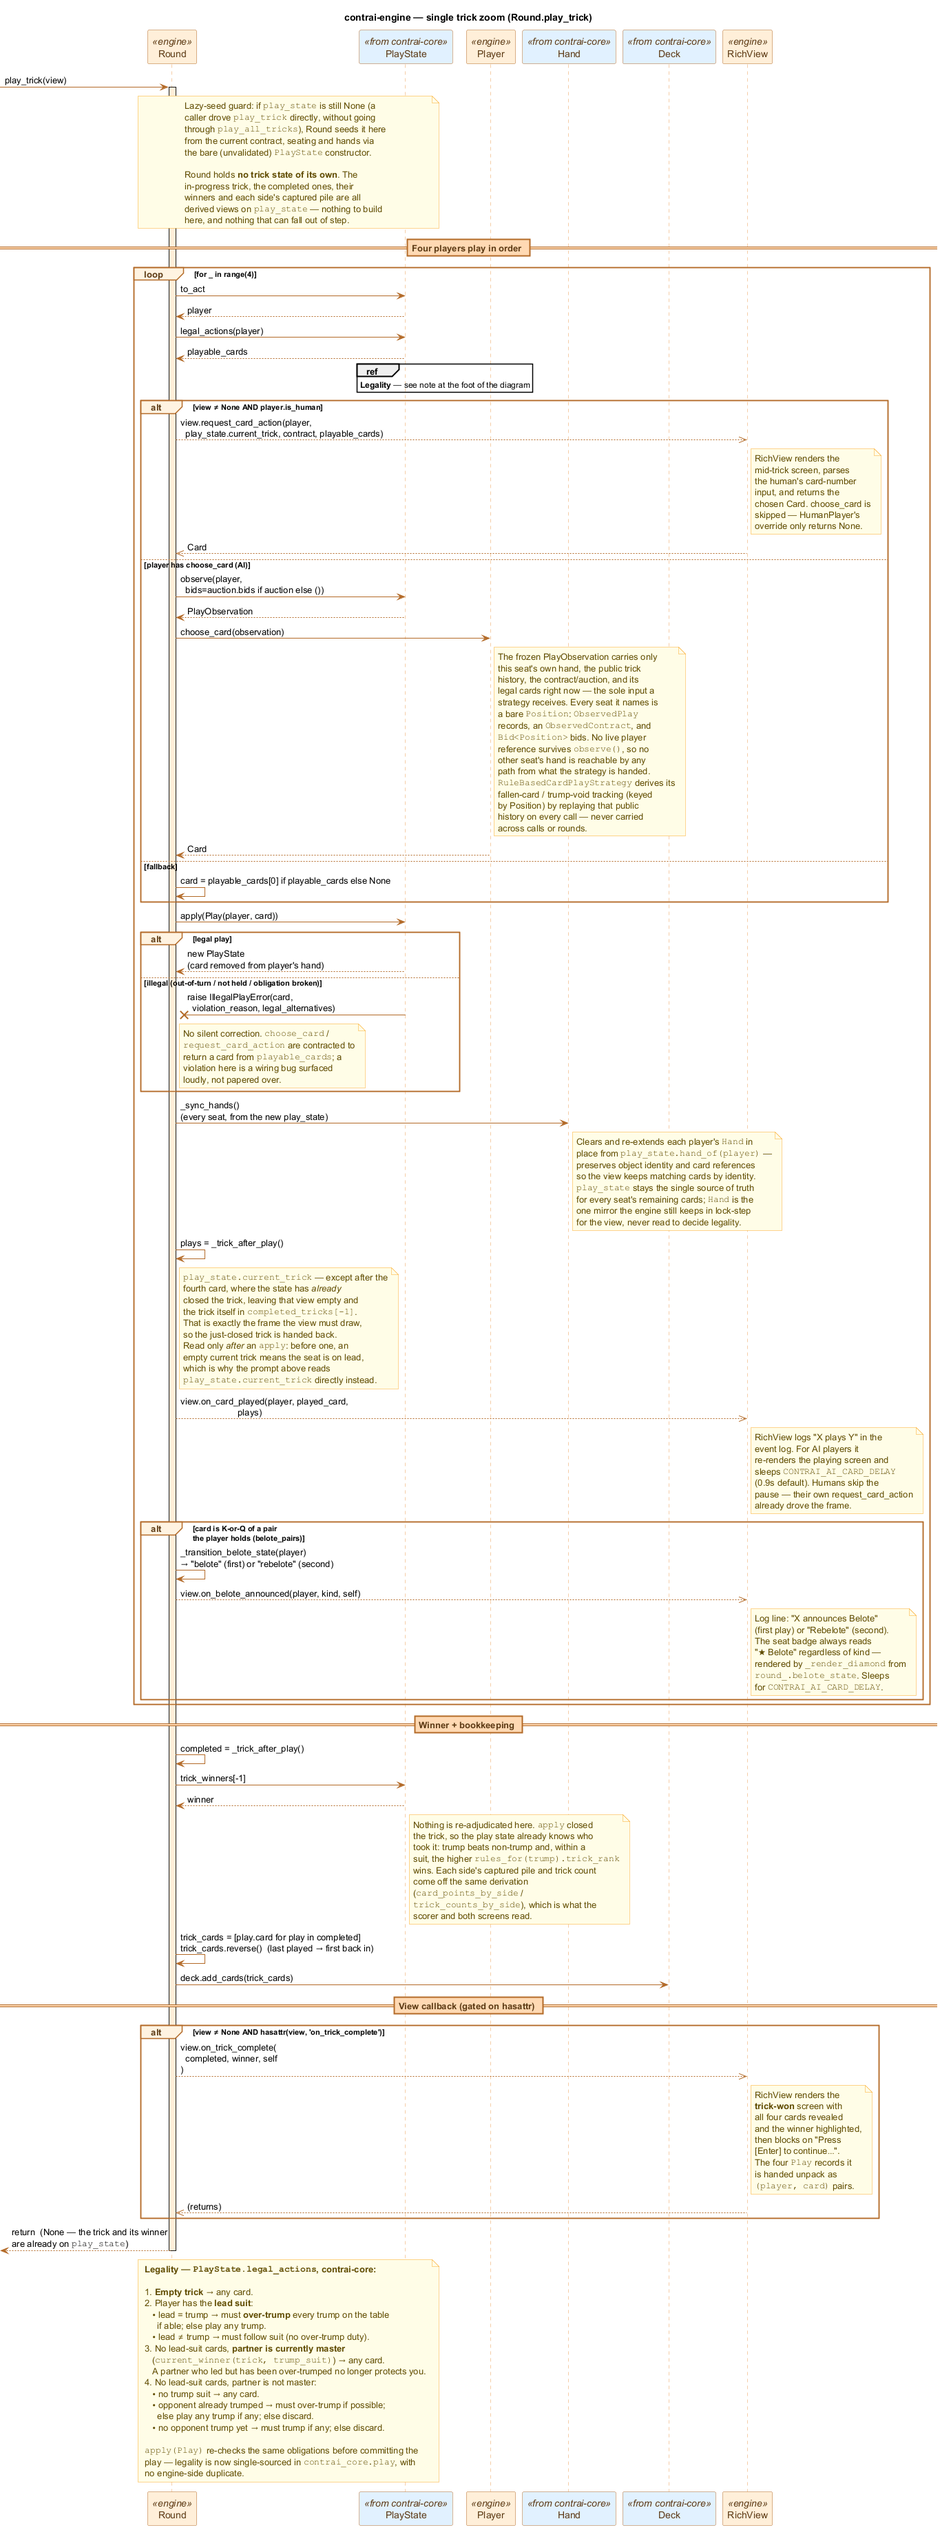
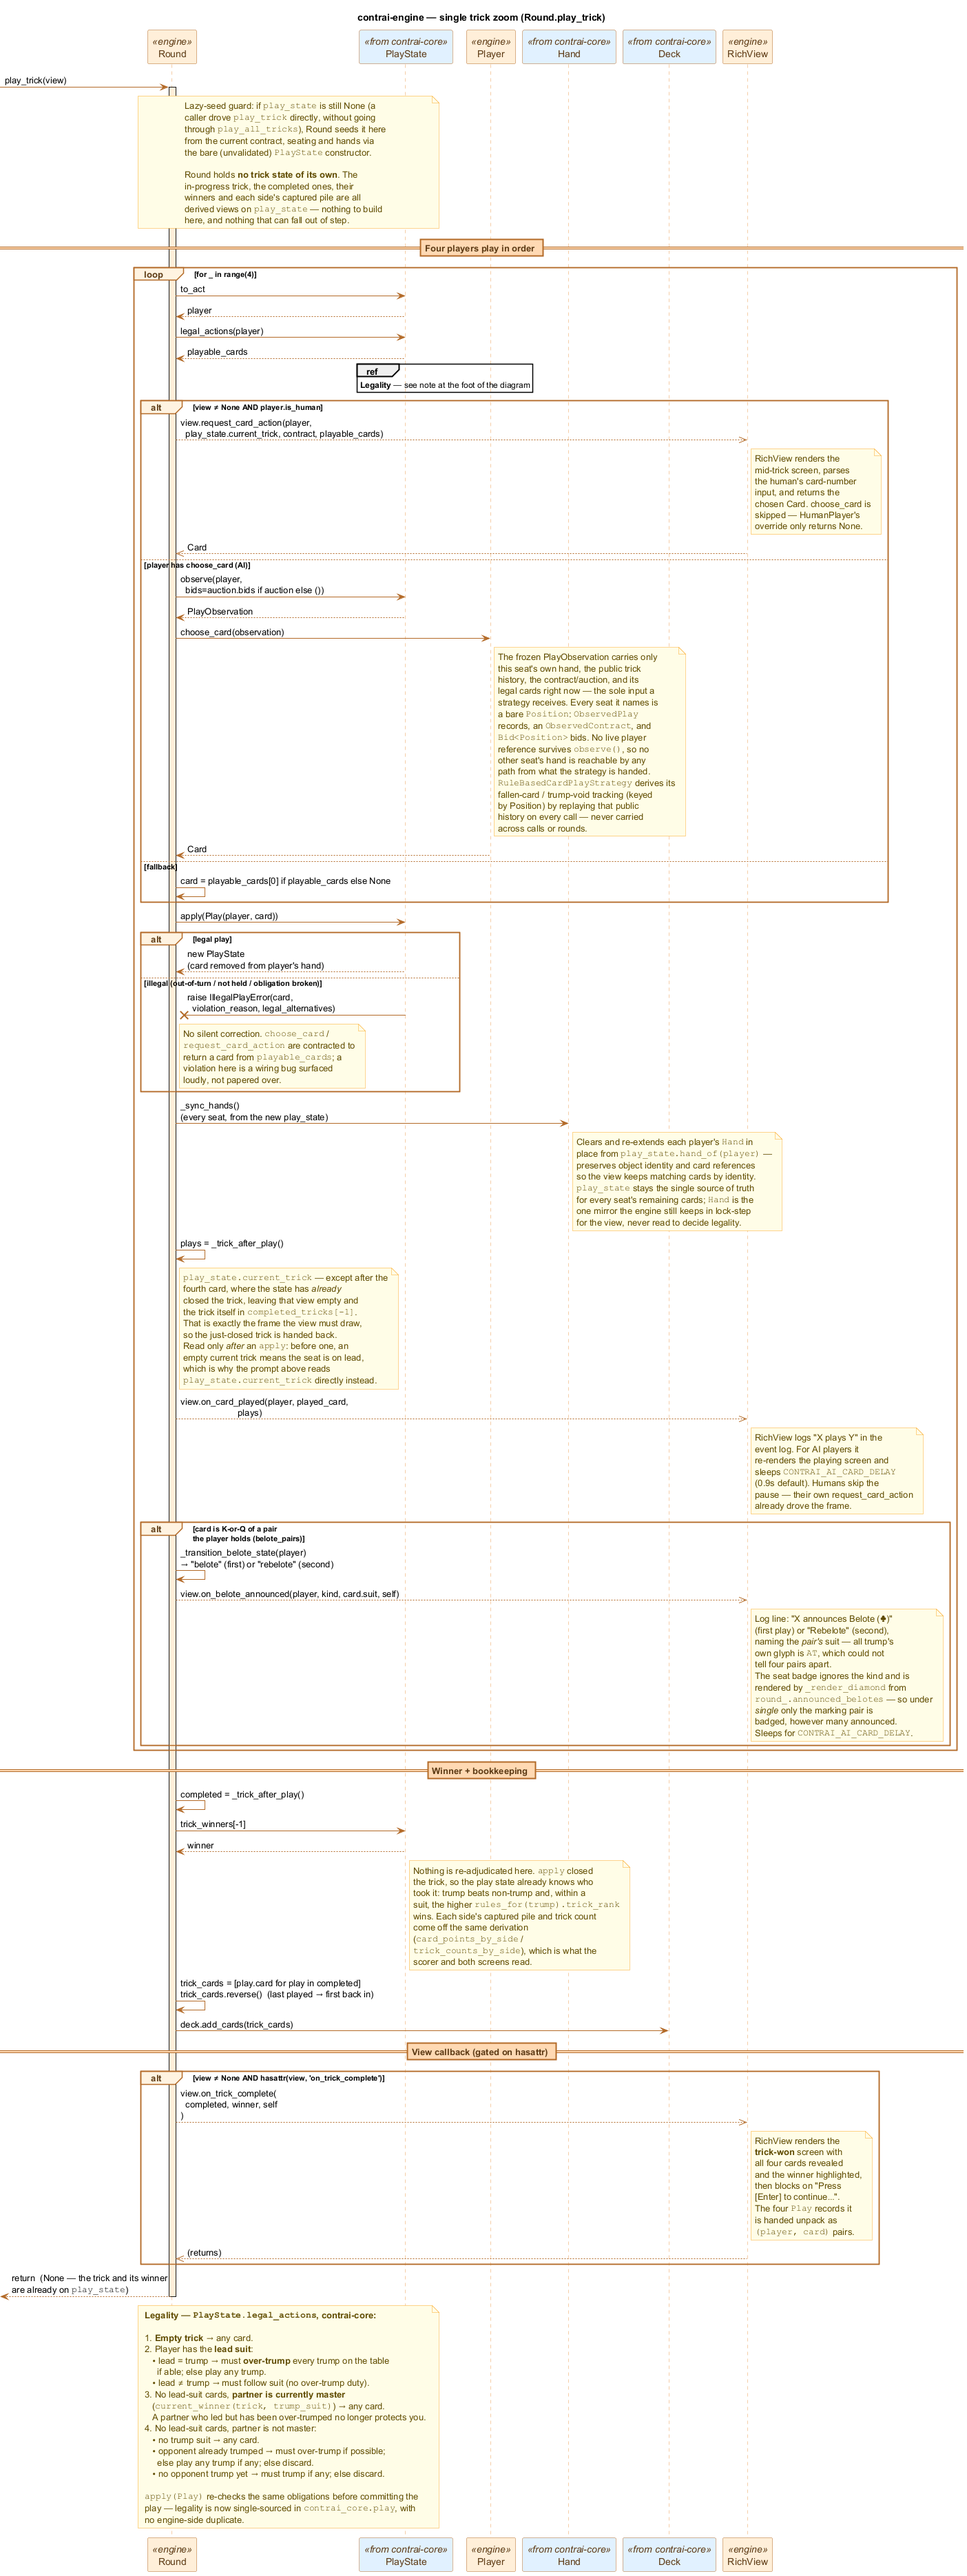
fix(engine)!: name the announced pair's own suit in the event log
The log appended the *contract's* glyph, and all trump's is the string
"AT" — so the up to four pairs one deal can hold all narrated as
"N announces Belote (AT).", with nothing to tell them apart. The hook
now carries the pair's suit, which the call site already had in hand as
card.suit. Under `single` the later announcements are still logged: a
seat really does say it at the table, it just marks nothing and so
carries no badge.

BREAKING CHANGE: view.on_belote_announced(player, kind, round_) gains a
suit parameter before round_ — on_belote_announced(player, kind, suit,
round_). A view that does not implement the hook is unaffected (the call
stays hasattr-gated); one that does must accept the new argument.

diff --git a/packages/contrai-engine/src/contrai_engine/view/rich_view.py b/packages/contrai-engine/src/contrai_engine/view/rich_view.py
@@ -37,6 +37,7 @@ from contrai_core import (
     Card,
     Contract,
     Play,
+    Suit,
     TeamSide,
     rules_for,
 )
@@ -427,15 +428,28 @@ class RichView:
         self._pause("CONTRAI_AI_CARD_DELAY", 0.9)
 
     def on_belote_announced(
-        self, player: BasePlayer, kind: str, round_: "Round"
+        self, player: BasePlayer, kind: str, suit: Suit, round_: "Round"
     ) -> None:
         """Belote / rebelote announcement: log + brief pause.
 
         The persistent ★ badge under the player's seat is rendered by
-        ``_render_diamond`` from ``round_.belote_state``, so this hook
-        only needs to record the moment and pace it visibly. The pause
-        uses the card delay so it fits the per-play rhythm."""
-        trump = round_.contract.suit if round_ and round_.contract else None
+        ``_render_diamond`` from ``round_.announced_belotes``, so this
+        hook only needs to record the moment and pace it visibly. The
+        pause uses the card delay so it fits the per-play rhythm.
+
+        The line names the *pair's* suit, not the contract's: at all
+        trump the contract suit is ``ALL_TRUMP``, whose glyph is the
+        string ``AT``, so all four pairs a deal can hold would otherwise
+        narrate identically. Under ``single`` the later announcements are
+        still logged — a seat really does say it at the table — they just
+        carry no badge, because they mark nothing.
+
+        Args:
+            player: The seat announcing.
+            kind: ``"belote"`` or ``"rebelote"``.
+            suit: The suit of the King + Queen pair being announced.
+            round_: The round in progress.
+        """
         line = Text()
         label = _position_short(player.position)
         color = _position_color(player.position)
@@ -445,12 +459,9 @@ class RichView:
             "Belote" if kind == "belote" else "Rebelote",
             style=f"bold {GOLD}",
         )
-        if trump is not None:
-            line.append(" (", style=DIM)
-            line.append(_suit_glyph(trump), style=_suit_color(trump))
-            line.append(").", style=DIM)
-        else:
-            line.append(".", style=DIM)
+        line.append(" (", style=DIM)
+        line.append(_suit_glyph(suit), style=_suit_color(suit))
+        line.append(").", style=DIM)
         self._log(line)
         self._pause("CONTRAI_AI_CARD_DELAY", 0.9)
 

diff --git a/packages/contrai-engine/tests/test_view/test_rich_view.py b/packages/contrai-engine/tests/test_view/test_rich_view.py
@@ -29,6 +29,7 @@ from contrai_core import (
     RuleConfig,
     Suit,
     TeamSide,
+    TrumpVariant,
     TurnDirection,
 )
 from contrai_core.bid import ContractBid, DoubleBid, PassBid
@@ -532,7 +533,7 @@ class TestBeloteAnnouncement:
         view = self._make_view(monkeypatch)
         north, *_ = four_players
         round_ = self._StubRound(self._StubContract(Suit.HEARTS), {north: "belote"})
-        view.on_belote_announced(north, "belote", round_)
+        view.on_belote_announced(north, "belote", Suit.HEARTS, round_)
         line = view.event_log[-1].plain
         assert "Belote" in line
         assert "Rebelote" not in line
@@ -542,8 +543,26 @@ class TestBeloteAnnouncement:
         north, *_ = four_players
         round_ = self._StubRound(self._StubContract(Suit.HEARTS),
                                  {north: "rebelote"})
-        view.on_belote_announced(north, "rebelote", round_)
+        view.on_belote_announced(north, "rebelote", Suit.HEARTS, round_)
         assert "Rebelote" in view.event_log[-1].plain
+
+    def test_on_belote_announced_names_the_pairs_own_suit(
+        self, monkeypatch, four_players
+    ):
+        """All trump's contract glyph is the string "AT", not a suit.
+
+        Logging it left four different pairs narrating identically; the
+        pair's own suit is what tells them apart.
+        """
+        view = self._make_view(monkeypatch)
+        north, *_ = four_players
+        round_ = self._StubRound(
+            self._StubContract(TrumpVariant.ALL_TRUMP), {north: "belote"}
+        )
+        view.on_belote_announced(north, "belote", Suit.CLUBS, round_)
+        line = view.event_log[-1].plain
+        assert "♣" in line
+        assert "AT" not in line
 
     def test_on_belote_announced_sleeps(self, monkeypatch, four_players):
         """Announcement uses the AI card delay so it lands visibly."""
@@ -556,7 +575,7 @@ class TestBeloteAnnouncement:
         north, *_ = four_players
         view = RichView()
         round_ = self._StubRound(self._StubContract(Suit.HEARTS), {})
-        view.on_belote_announced(north, "belote", round_)
+        view.on_belote_announced(north, "belote", Suit.HEARTS, round_)
         assert sleep_calls == [0.01]
 
     def test_diamond_renders_belote_badge_for_announcer(

diff --git a/packages/contrai-engine/tests/test_model/test_round.py b/packages/contrai-engine/tests/test_model/test_round.py
@@ -928,6 +928,54 @@ class TestAnnouncedBelotes:
         assert round_.announced_belotes == ()
 
 
+class TestBeloteAnnouncementHook:
+    """``view.on_belote_announced`` is told which pair announced.
+
+    The contract's own glyph cannot say it: at all trump the contract
+    suit is ``ALL_TRUMP``, which renders as the string ``AT``, so four
+    different pairs would narrate identically.
+    """
+
+    class _RecordingView:
+        def __init__(self):
+            self.announcements = []
+
+        def on_belote_announced(self, player, kind, suit, round_):
+            self.announcements.append((player, kind, suit))
+
+    def test_the_pair_suit_reaches_the_view(self, players):
+        # All trump, so the contract's own suit is ALL_TRUMP and cannot
+        # name the pair. N holds K♣ + Q♣ and leads the King.
+        cards = {
+            "N": Card(Suit.CLUBS, Rank.KING),
+            "E": Card(Suit.CLUBS, Rank.SEVEN),
+            "S": Card(Suit.CLUBS, Rank.EIGHT),
+            "W": Card(Suit.CLUBS, Rank.NINE),
+        }
+        round_ = _make_round(
+            players,
+            {
+                "N": [cards["N"], Card(Suit.CLUBS, Rank.QUEEN)],
+                "E": [cards["E"]],
+                "S": [cards["S"]],
+                "W": [cards["W"]],
+            },
+            contract=_contract(players["N"], 100, TrumpVariant.ALL_TRUMP),
+            deck=_StubDeck(),
+            rules=RuleConfig(extended_trump_choices=True),
+        )
+        round_._detect_belote_pairs()
+        for seat in ("N", "E", "S", "W"):
+            players[seat].choose_card = (
+                lambda observation, _c=cards[seat]: _card_choice(_c)
+            )
+        view = self._RecordingView()
+        round_.play_trick(view=view)
+        assert view.announcements == [
+            (players["N"], "belote", Suit.CLUBS)
+        ]
+
+
 # ---------------------------------------------------------------------------
 # Auto-pass when partner has doubled / redoubled (end-to-end)
 # ---------------------------------------------------------------------------

diff --git a/packages/contrai-engine/src/contrai_engine/model/round/round.py b/packages/contrai-engine/src/contrai_engine/model/round/round.py
@@ -598,7 +598,7 @@ class Round:
                 if kind is not None and view is not None and hasattr(
                     view, 'on_belote_announced'
                 ):
-                    view.on_belote_announced(player, kind, self)
+                    view.on_belote_announced(player, kind, card.suit, self)
 
         # Who won is a pure rule of the trick given trump, and the play
         # state has already applied it — the winner of the trick just

diff --git a/docs/engine/index.md b/docs/engine/index.md
@@ -200,7 +200,7 @@ The two zoom diagrams below break out the dense parts.
     ```plantuml format="svg" source="seq_trick.puml"
     ```
 
-    Leader determination is implicit in `play_state.to_act` (trick 0 is led by `players_order[0]`; every later trick by the previous winner). For each of the four plays: `play_state.to_act` / `play_state.legal_actions(player)` supply the active player and legal cards → the human seat is asked via `view.request_card_action`, an AI seat via `choose_card(play_state.observe(player, bids=...))` (the frozen `PlayObservation` is the only thing the strategy ever sees), any other seat falls back to the first legal card → `play_state = play_state.apply(Play(player, card))` advances the authoritative state (raising `IllegalPlayError` on an out-of-turn, not-held, or obligation-breaking card — no silent correction) → `_sync_hands` re-mirrors every seat's `Hand` from the new state → `view.on_card_played(player, card, plays)` → optional `view.on_belote_announced(player, kind, round_)` when a seat plays a K or Q of a pair it holds. Once all four plays land: `view.on_trick_complete(plays, winner, round_)` callback (each hook is gated on `hasattr(view, …)`, so non-Rich callers stay unaffected). The `plays` the hooks receive are core `Play` records — a `(player, card)` `NamedTuple`, so an in-progress trick and a completed `TrickRecord` read alike. Two subtleties to know. `Round._trick_after_play` normally hands over `play_state.current_trick`, but after a trick's fourth card the state has *already* closed it — that view is empty again and the trick sits in `completed_tricks[-1]`, which is precisely the frame the view must draw, so the just-closed trick is handed back instead. That choice is only sound *after* an `apply`: before one, an empty current trick means the seat is on lead, which is why the human prompt reads `play_state.current_trick` directly. And `PlayState.legal_actions` (contrai-core) correctly forces over-trump when trump is led and keys the partner exemption on the *current master* of the partial trick — see the legality note at the foot of the diagram.
+    Leader determination is implicit in `play_state.to_act` (trick 0 is led by `players_order[0]`; every later trick by the previous winner). For each of the four plays: `play_state.to_act` / `play_state.legal_actions(player)` supply the active player and legal cards → the human seat is asked via `view.request_card_action`, an AI seat via `choose_card(play_state.observe(player, bids=...))` (the frozen `PlayObservation` is the only thing the strategy ever sees), any other seat falls back to the first legal card → `play_state = play_state.apply(Play(player, card))` advances the authoritative state (raising `IllegalPlayError` on an out-of-turn, not-held, or obligation-breaking card — no silent correction) → `_sync_hands` re-mirrors every seat's `Hand` from the new state → `view.on_card_played(player, card, plays)` → optional `view.on_belote_announced(player, kind, suit, round_)` when a seat plays a K or Q of a pair it holds — the *pair's* suit, since at all trump the contract's own glyph is the string `AT` and could not tell four pairs apart. Once all four plays land: `view.on_trick_complete(plays, winner, round_)` callback (each hook is gated on `hasattr(view, …)`, so non-Rich callers stay unaffected). The `plays` the hooks receive are core `Play` records — a `(player, card)` `NamedTuple`, so an in-progress trick and a completed `TrickRecord` read alike. Two subtleties to know. `Round._trick_after_play` normally hands over `play_state.current_trick`, but after a trick's fourth card the state has *already* closed it — that view is empty again and the trick sits in `completed_tricks[-1]`, which is precisely the frame the view must draw, so the just-closed trick is handed back instead. That choice is only sound *after* an `apply`: before one, an empty current trick means the seat is on lead, which is why the human prompt reads `play_state.current_trick` directly. And `PlayState.legal_actions` (contrai-core) correctly forces over-trump when trump is led and keys the partner exemption on the *current master* of the partial trick — see the legality note at the foot of the diagram.
 
 ### Scoring
 

diff --git a/CHANGELOG.md b/CHANGELOG.md
@@ -65,6 +65,7 @@ All four workspace packages (`contrai-core`, `contrai-engine`, `contrai-analyzer
 - (core) The over-trump obligation ranks candidates with `trick_rank`, so an off-suit discard can no longer raise the bar at all trump.
 - (engine) A no-trump contract renders as `NT` / `No Trump` instead of `NoTrump No Trump`, and its bid cell no longer overflows the history column.
 - (engine) The trick panels grow to fit their belote badges, so a second badge row no longer crops the `Won: …` / `→ …` footer.
+- (engine) **BREAKING:** `view.on_belote_announced(player, kind, suit, round_)` takes the announced pair's suit, so the log names it instead of all trump's `AT`.
 
 ## [0.3.0] - 2026-08-15
 
